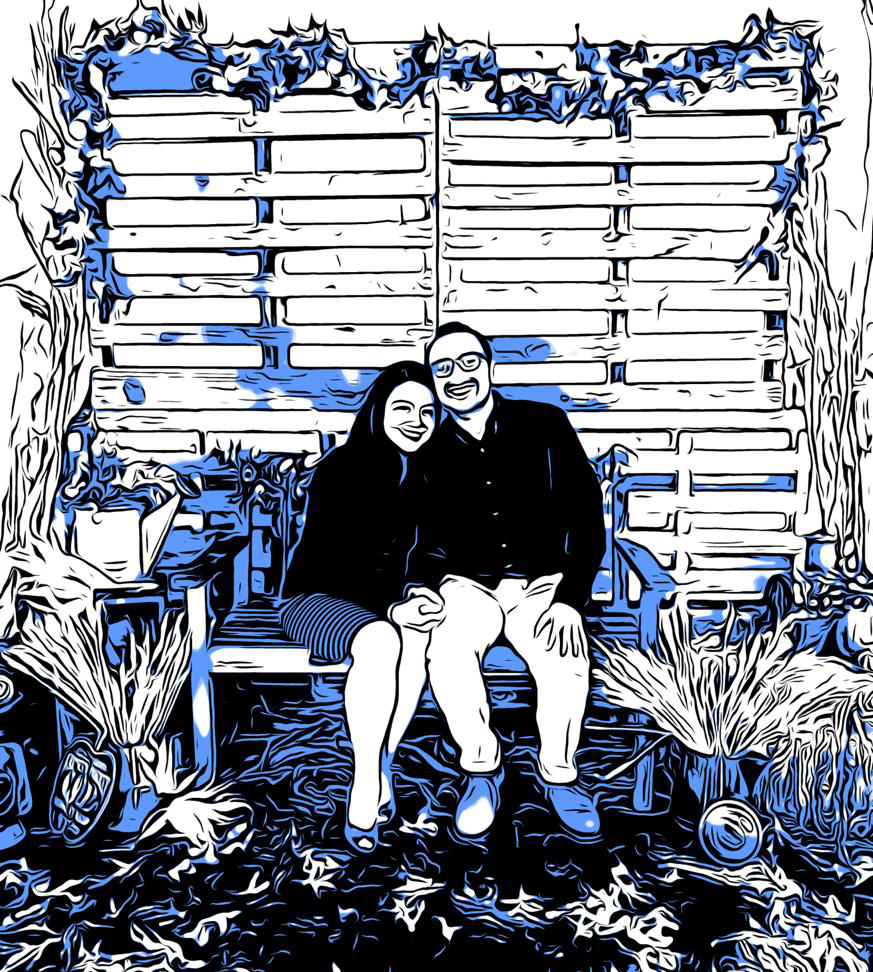
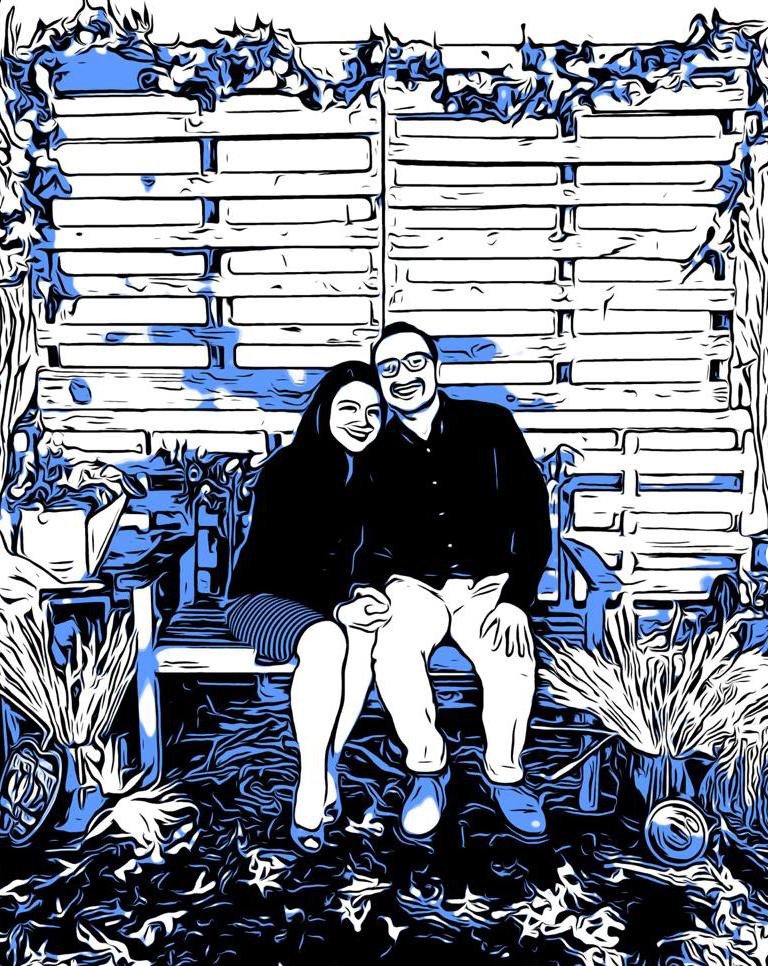
fixed toon2, began working on portfolio

diff --git a/src/components/Gallery.js b/src/components/Gallery.js
@@ -18,10 +18,23 @@ import toon16 from '../images/toon16.png';
 import '../css/Gallery.css';
 import GalleryImage from './GalleryImage';
 
-const toonArr = [toon1, toon2, toon3, toon4, toon5, toon6, toon7, toon8, toon9, toon10,
-    toon11, toon12, toon13, toon14, toon15, toon16];
+const toonArr = [
+    { name: 'toon1', img: toon1 }, { name: 'toon2', img: toon2 }, { name: 'toon3', img: toon3 }, 
+    { name: 'toon4', img: toon4 }, { name: 'toon5', img: toon5 }, { name: 'toon6', img: toon6 }, 
+    { name: 'toon7', img: toon7 }, { name: 'toon8', img: toon8 }, { name: 'toon9', img: toon9 }, 
+    { name: 'toon10', img: toon10 }, { name: 'toon11', img: toon11 }, { name: 'toon12', img: toon12 }, 
+    { name: 'toon13', img: toon13 }, { name: 'toon14', img: toon14 }, { name: 'toon15', img: toon15 }, 
+    { name: 'toon16', img: toon16 }
+];
 
-const Gallery = () => {
+const tooltipConfig = {
+    place: 'top',
+    type: 'dark',
+    effect: 'float',
+    condition: false
+}
+
+const Gallery = ({ content }) => {
     const [arr, setArr] = useState(toonArr);
 
     const shuffle = () => {
@@ -30,7 +43,7 @@ const Gallery = () => {
             const j = Math.floor(Math.random() * (i + 1));
             [copy[i], copy[j]] = [copy[j], copy[i]];
         }
-        console.log(arr.length);
+
         setArr(copy);
     }
 
@@ -38,8 +51,22 @@ const Gallery = () => {
 
     return (
         <div className="gallery">
-            {arr.map((pic, key) =>
-                <GalleryImage key={key} img={pic} />
+            <svg onClick={ shuffle } 
+                version="1.1" id="Layer_1" xmlns="http://www.w3.org/2000/svg" xlink="http://www.w3.org/1999/xlink" x="0px" y="0px"
+                viewBox="0 0 96 96" space="preserve">
+                <g id="XMLID_1_">
+                    <path id="XMLID_6_" d="M49.3,41.8l4.1-5.1l0,0c3.2-3.7,7.9-5.8,12.8-5.8h7.2l-6.2-6.2l2.7-2.7l10.8,10.8L69.7,43.7L67,41l6.2-6.2
+                        h-7.2c-3.7,0-7.3,1.6-9.8,4.4l-4.1,5.1L49.3,41.8z M37.6,56.3L37.6,56.3c-2.6,3.1-6.3,4.9-10.4,4.9H15.5V65h11.7
+                        c5.2,0,10-2.3,13.2-6.3l0,0l3.6-4.4l-2.9-2.4L37.6,56.3z M67,55l6.2,6.2h-7.2c-4,0-7.7-1.8-10.2-4.8L39.8,36.5l0,0
+                        C36.5,33,32,31,27.2,31H15.5v3.8h11.7c3.8,0,7.4,1.6,9.9,4.4l15.7,19.4l0,0C56,62.7,60.9,65,66.1,65h7.2L67,71.2l2.7,2.7l10.8-10.8
+                        L69.7,52.3L67,55z"/>
+                </g>
+            </svg>
+            {arr.map((entry, key) =>
+                <GalleryImage key={key} 
+                    img={entry.img}
+                    tooltipMessage={content[entry.name]}
+                    tooltipConfig={tooltipConfig} />
             )}
         </div>
     );

diff --git a/src/components/Portfolio.js b/src/components/Portfolio.js
@@ -1,0 +1,27 @@
+import React from 'react';
+import { Link } from 'react-router-dom';
+import Button from './Button';
+import contentJSON from '../json/content.json';
+import '../css/Portfolio.css';
+
+const Portfolio = ({ lang }) => {
+    const text = contentJSON.main[lang || 'en'];
+
+    return (
+        <div className="portfolio">
+            <div className="header">
+            <iframe width={window.innerWidth} height={window.innerHeight} src="https://www.youtube.com/embed/fa5ITnmzV84?&version=3&rel=0&loop=1&autoplay=1&showinfo=0&controls=0&autohide=1" 
+                allow="accelerometer; autoplay; loop; controls; encrypted-media; gyroscope; picture-in-picture" frameborder="0" allowfullscreen></iframe>
+                {/* <iframe width={window.innerWidth} height={window.innerHeight} 
+                    src="https://www.youtube.com/embed/fa5ITnmzV84" 
+                    frameborder="0" allow="accelerometer; autoplay; encrypted-media; gyroscope; picture-in-picture" allowfullscreen></iframe> */}
+                {/* <div className="header-info">
+                    <h1>portfolio snippets</h1>
+                    <Button content={<Link to="/contact" >{text.contact}</Link>} callback={null} />
+                </div> */}
+            </div>
+        </div>
+    );
+}
+
+export default Portfolio;

diff --git a/src/components/GalleryImage.js b/src/components/GalleryImage.js
@@ -1,10 +1,19 @@
 import React from 'react';
 import '../css/GalleryImage.css';
+import ReactTooltip from 'react-tooltip';
 
-const GalleryImage = ({ img }) => {
+const GalleryImage = ({ img, tooltipMessage, tooltipConfig }) => {
     return (
-        <div className="gallery-image" 
-            style={{backgroundImage: `url(${img})`}}></div>
+            <div className="gallery-image" 
+                style={{backgroundImage: `url(${img})`}}
+                data-tip data-for={img} >
+                <ReactTooltip id={img}
+                    type={tooltipConfig.type}
+                    effect={tooltipConfig.effect}
+                    condition={tooltipConfig.condition} >
+                    {tooltipMessage}
+                </ReactTooltip>
+            </div>
     );
 }
 

diff --git a/src/components/App.js b/src/components/App.js
@@ -10,6 +10,7 @@ import '../css/App.css';
 import MenuToggle from './MenuToggle';
 import SideNav from './SideNav';
 import About from './About';
+import Portfolio from './Portfolio';
 
 const sidebar = {
   open: (height = window.innerHeight) => ({
@@ -55,7 +56,7 @@ export default function App() {
             <About lang={lang} />
           </Route>
           <Route path="/portfolio">
-            {() => <div>PORTFOLIO HOMESE J AFJEKJ FEJKFEJAKFE AEJ FJAEE</div>}
+            <Portfolio lang={lang} />
           </Route>
           <Route path="/contact">
             {() => <div>CONTACT ME COANTQA CONTACT ME</div>}

diff --git a/src/components/About.js b/src/components/About.js
@@ -14,6 +14,7 @@ const About = ({ lang }) => {
                 <h1>{text.header}</h1>
                 <p>{text.story.main}</p>
                 <p>{text.story.main_2}</p>
+                <p>{text.story.history}</p>
                 <p>{text.story.main_3}&nbsp;
                     <Link to="contact">
                         {text.story.contact}
@@ -49,7 +50,7 @@ const About = ({ lang }) => {
                 </div>
             </section>
             <section className="pics">
-                <Gallery />
+                <Gallery content={text.imageInfo} />
             </section>
         </div>
     );

diff --git a/src/css/Portfolio.css b/src/css/Portfolio.css
@@ -1,0 +1,29 @@
+.portfolio {
+    width: 100%;
+    height: 100%;
+    position: relative;
+}
+
+.portfolio > .header {
+    width: 100%;
+    height: 500px;
+    overflow: hidden;
+    position: absolute;
+    top: -4px;
+    left: 0;
+    /* background-image: url('https://media.giphy.com/media/mCIeZHgCZiNztxiRPw/giphy.gif');
+    background-size: contain; */
+}
+
+.portfolio > .header > iframe {
+    margin-top: -80px;
+}
+
+.portfolio > .header > .header-info {
+    position: absolute;
+    width: calc(100% - 120px);
+    top: 0;
+    left: 120px;
+    font-size: 3vw;
+    padding: 0 2vw;
+}

diff --git a/src/css/About.css b/src/css/About.css
@@ -70,6 +70,23 @@
     fill: #e9c73e;
 }
 
+@media only screen and (max-width: 1415px) {
+    .about > section.info > h1 {
+        font-size: 3vw;
+        text-align: right;
+    }
+    
+    .about > section.info > p {
+        font-size: 1.7vw;
+        line-height: 2vw;
+        margin-bottom: 0.6vw;
+    }
+    
+    .about > section.info > p.question {
+        font-size: 1.2vw;
+    }
+}
+
 @media only screen and (max-width: 1020px) {
     .about > section.info {
         display: block;

diff --git a/src/css/Gallery.css b/src/css/Gallery.css
@@ -4,6 +4,18 @@
     display: grid;
     grid-template-columns: repeat(3, minmax(240px, 1fr));
     grid-template-rows: repeat(3, minmax(280px, 1fr));
+    position: relative;
+}
+
+.gallery > svg {
+    position: absolute;
+    top: 0;
+    left: 0;
+    fill: rgb(238, 238, 238);
+    width: 48px;
+    cursor: pointer;
+    background: rgba(0, 0, 0, 0.548);
+    border-radius: 0 0 10px 0;
 }
 
 @media only screen and (max-width: 1020px) {
